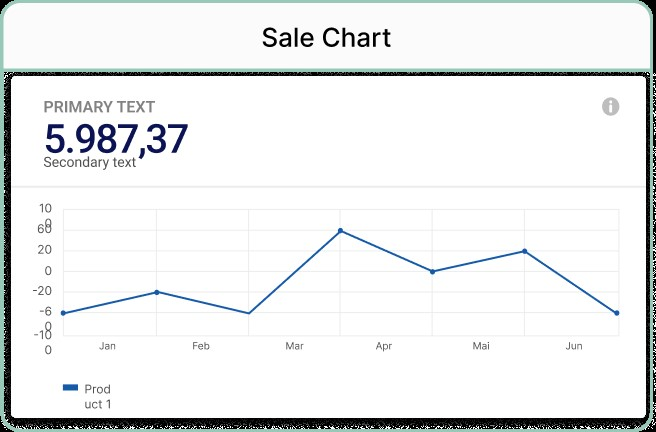
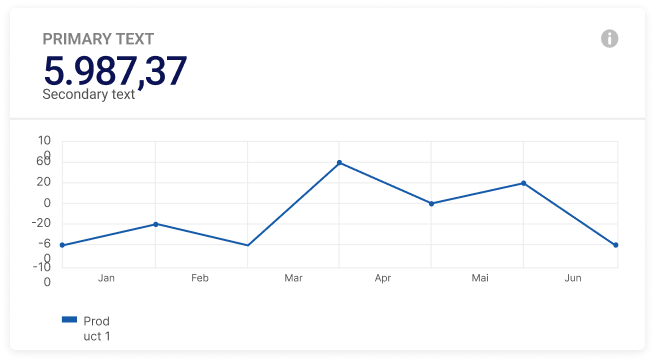
main수정본업로드
이미지변경
메인페이지 수정본 별도 업로드

diff --git a/html/11_12_htlmMainJumju.html b/html/11_12_htlmMainJumju.html
@@ -1,0 +1,204 @@
+<!DOCTYPE html>
+<html lang="en">
+<head>
+    <meta charset="UTF-8">
+    <link href="../CSS/bootstrap.css" rel="stylesheet" type="text/css">
+    <link href="../CSS/MainpageForUser.css" rel="stylesheet" type="text/css">
+    <script src="https://ajax.googleapis.com/ajax/libs/jquery/3.3.1/jquery.min.js"></script>
+</head>
+<body style="overflow:hidden">
+<script src="https://cdn.jsdelivr.net/npm/bootstrap@5.0.2/dist/js/bootstrap.bundle.js"></script>
+<header class="header bg-primary">
+    <div class="container-fluid h-100">
+
+        <div class="row h-100">
+            <div class="col-1 g-0" style="border: 5px solid black">
+                <span class="d-flex align-items-center justify-content-center fs-4 text-white"
+                      style="width: 100%; height: 100%; border: 1px solid red">BrandName</span>
+            </div>
+            <div class="col-3 g-0" style="border: 5px solid black"></div>
+            <div class="col-1 g-0" style="border: 1px solid red">
+                <div class="dropdown h-100 d-flex justify-content-center align-items-center"
+                     style="border: 1px solid #00B7FF">
+                    <button class="btn bg-transparent btn-lg dropdown-toggle" href="#" type="button"
+                            id="dropdownButton1"
+                            data-bs-toggle="dropdown" aria-expanded="false">
+                        매출
+                    </button>
+                    <ul class="dropdown-menu bg-primary" aria-labelledby="dropdownMenuButton1">
+                        <li><a class="dropdown-item text-white">매출 정보 조회</a></li>
+                        <li><a class="dropdown-item text-white">매출 정보 관리</a></li>
+                        <li><a class="dropdown-item text-white">주문서 등록</a></li>
+                    </ul>
+                </div>
+            </div>
+            <div class="col-2 g-0"></div>
+            <div class="col-1 g-0" style="border: 1px solid #00B7FF">
+                <!-- 드롭다운 또는 원하는 요소를 넣을 수 있습니다 -->
+                <div class="dropdown h-100 d-flex justify-content-center align-items-center">
+                    <button class="btn bg-transparent btn-lg dropdown-toggle" href="#" type="button"
+                            id="dropdownButton2"
+                            data-bs-toggle="dropdown" aria-expanded="false">
+                        상품
+                    </button>
+                    <ul class="dropdown-menu bg-primary" aria-labelledby="dropdownMenuButton1">
+                        <li><a class="dropdown-item text-white">상품 조회</a></li>
+                    </ul>
+                </div>
+            </div>
+            <div class="col-4 g-0" style="border: 5px solid black"></div>
+        </div>
+    </div>
+</header>
+<section class="section bg-warning">
+    <div class="mainForJumju gradient-primary" style="height: 50%;">
+        <div>
+            <br>
+            <br>
+            <br>
+            <h2 style="color:#6610f2; font-size: 350%;"> &nbsp; &nbsp; &nbsp;Sales</h2>
+            <h2 style="color:#007bff;font-size: 350%;">&nbsp; &nbsp; &nbsp; &nbsp;&nbsp;Management</h2>
+            <h2 style="color: #56cc9d;font-size: 350%;">&nbsp; &nbsp; &nbsp; &nbsp;&nbsp;&nbsp; &nbsp;System</h2>
+        </div>
+        <div class="mainForJumjuSecond" style="margin-bottom: 1.5%;">
+            <div>
+                <div>
+                    <img src="../image/Vector.png" class="img-fluid" alt="" style="border: 1px solid black">
+                </div>
+                <div>
+                    <img src="../image/img.png" class="img-fluid" alt="">
+                </div>
+                <div>
+                    <img src="../image/image76.png" class="img-fluid" alt="">
+                </div>
+            </div>
+        </div>
+        <div>
+            <img src="../image/financial.png" class="img-fluid" alt="">
+        </div>
+    </div>
+    <div class="mainForJumjuSecond" style="position: relative;">
+        <div style="position: absolute; top: 65%; left: 27%;  transform: translate(-50%, -50%);">
+            <div class="card border-primary mb-3" style="width: 45rem; height: 24rem;">
+                <div class="card-header" style="text-align: center; color: black; font-weight: bold;">
+                    Sale Chart
+                </div>
+                <div class="card-body" style=" width: 100%; height:100%;">
+                    <img src="../image/SalesChart.png" alt="" style="display: block; width: 100%; height:87%;">
+                </div>
+            </div>
+        </div>
+        <div style="position: absolute; top: 65%; left: 75%;  transform: translate(-50%, -50%);">
+            <div class="card border-primary mb-3" style="width: 35rem; height: 24rem;">
+                <div class="card-header" style="text-align: center; color: black; font-weight: bold;  width: 100%; height: auto;">
+                Circular chart by product
+            </div>
+            <div class="card-body" style=" width: 100%; height:100%;">
+                <img src="../image/donut.png" alt="" style="display: block; width: 100%; height:87%;">
+            </div>
+        </div>
+    </div>
+    </div>
+</section>
+<aside class="aside">
+    <div class="first bg-teal">
+        <div class="firstchild1" style="border: 1px solid red">
+            <div class="fs-4 firstchild2 d-flex align-items-center text-white" style="border: 1px solid blue">
+                사용자
+            </div>
+            <div class="firstchild3" style="border: 1px solid yellow">
+                <span class="d-flex align-items-center justify-content-center fs-4 text-white"
+                      style="width: 100%; height: 100%; border: 1px solid red">양창배</span>
+            </div>
+        </div>
+        <div class="firstchild1" style="border: 1px solid black">
+            <div class="fs-4 firstchild2 d-flex align-items-center text-white" style="border: 1px solid blue">
+                직급
+            </div>
+            <div class="firstchild3" style="border: 1px solid yellow">
+                <span class=" d-flex align-items-center justify-content-center fs-4 text-white"
+                      style="width: 100%; height: 100%; border: 1px solid red">알파메일</span>
+            </div>
+
+        </div>
+        <div class="firstchild1" style="border: 1px solid red">
+            <div class="fs-4 firstchild2 d-flex align-items-center text-white" style="border: 1px solid blue">
+                담당지점
+            </div>
+            <div class="firstchild3" style="border: 1px solid yellow">
+                <span class="d-flex align-items-center justify-content-center fs-4 text-white"
+                      style="width: 100%; height: 100%; border: 1px solid red">공주대 천안캠</span>
+            </div>
+        </div>
+        <div class="firstchild1" style="border: 1px solid black">
+            <div class="container-fluid h-100" style="border: 1px solid red">
+                <div class="row h-100" style="border: 1px solid magenta">
+                    <div class="col d-flex align-items-center justify-content-center">
+                        <button type="button" class="btn btn-primary">
+                            로그아웃
+                        </button>
+                    </div>
+                    <div class="col align-items-center justify-content-center">
+                        <button type="button" class="btn btn-primary">
+                            회원정보
+                        </button>
+                    </div>
+                </div>
+
+            </div>
+
+        </div>
+
+    </div>
+
+</aside>
+<!--<header class="bg-primary text-white py-4 g-0" style="height: 10vh;width: 100%;">-->
+<!--    <div style="width: 100%; height: 100%">-->
+<!--        <div class="h-100 w-100 row align-items-center justify-content-center g-0">-->
+<!--            <div class="col-md-4">-->
+<!--                &lt;!&ndash; 내용이 들어갈 자식 태그 &ndash;&gt;-->
+<!--            </div>-->
+<!--            <div class="col-md-1">-->
+<!--                &lt;!&ndash; 드롭다운 또는 원하는 요소를 넣을 수 있습니다 &ndash;&gt;-->
+<!--                <div class="dropdown">-->
+<!--                    <button class="btn bg-transparent btn-lg dropdown-toggle" href="#" type="button"-->
+<!--                            id="dropdownButton1"-->
+<!--                            data-bs-toggle="dropdown" aria-expanded="false">-->
+<!--                        매출-->
+<!--                    </button>-->
+<!--                    <ul class="dropdown-menu bg-primary" aria-labelledby="dropdownMenuButton1">-->
+<!--                        <li><a class="dropdown-item text-white">매출 정보 조회</a></li>-->
+<!--                        <li><a class="dropdown-item text-white">매출 정보 관리</a></li>-->
+<!--                        <li><a class="dropdown-item text-white">주문서 등록</a></li>-->
+<!--                    </ul>-->
+<!--                </div>-->
+<!--            </div>-->
+<!--            <div class="col-md-1"></div>-->
+<!--            <div class="col-md-1">-->
+<!--                &lt;!&ndash; 드롭다운 또는 원하는 요소를 넣을 수 있습니다 &ndash;&gt;-->
+<!--                <div class="dropdown">-->
+<!--                    <button class="btn bg-transparent btn-lg dropdown-toggle" href="#" type="button"-->
+<!--                            id="dropdownButton2"-->
+<!--                            data-bs-toggle="dropdown" aria-expanded="false">-->
+<!--                        상품-->
+<!--                    </button>-->
+<!--                    <ul class="dropdown-menu bg-primary" aria-labelledby="dropdownMenuButton1">-->
+<!--                        <li><a class="dropdown-item text-white">상품 조회</a></li>-->
+<!--                    </ul>-->
+<!--                </div>-->
+<!--            </div>-->
+
+<!--            &lt;!&ndash; 드롭다운 또는 원하는 요소를 넣을 수 있습니다 &ndash;&gt;-->
+<!--            <div class="col-md-4">-->
+<!--                &lt;!&ndash; 내용이 들어갈 자식 태그 &ndash;&gt;-->
+<!--            </div>-->
+<!--        </div>-->
+<!--    </div>-->
+
+<!--</header>-->
+<!--<div class="bg-black" style="height: 90vh; width: 80%">-->
+<!--</div>-->
+
+
+</body>
+</html>
